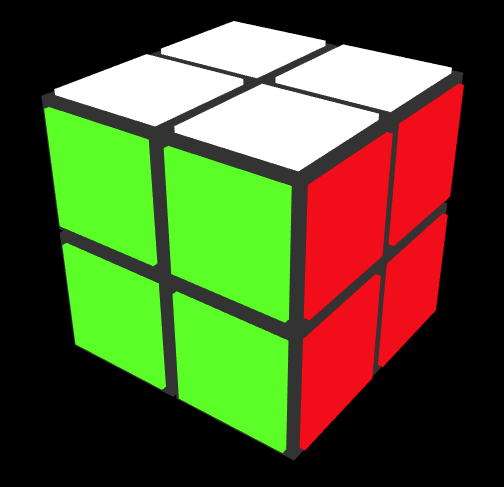
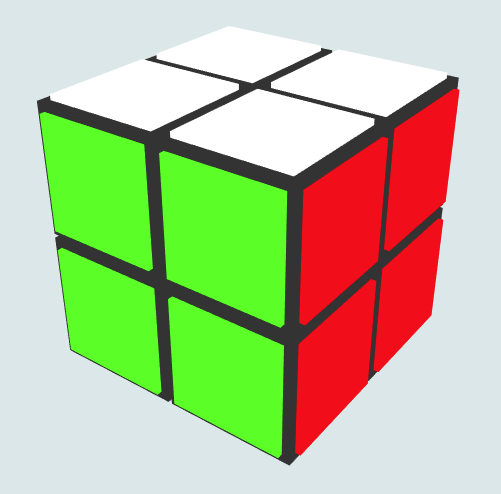
Bugfixes, log tweaking and more valid stats

diff --git a/2x2/trainer.js b/2x2/trainer.js
@@ -39,11 +39,9 @@ const WRITE_FILES = true
 const LOG_INTERVAL = 1
 
 if (!fs.existsSync(dir)) fs.mkdirSync(dir)
-const filename = `${dir}/2x2cube-${formatDate(new Date())}.json`
-const trainingfile = `${dir}/training.json`
 
 const HYPER = {
-	"ITERATIONS": 100000,
+	"EPOCHS": 2,
 	"MOVES": 5,
 	"EXPLORATION_RATE": 0.3,
 	"NETS": 1,
@@ -51,17 +49,22 @@ const HYPER = {
 	"TRAINING_OPTIONS": {
 		iterations: 10000,
 		errorThresh: 0.01,
-	  log: true,
-	  logPeriod: 200
+		timeout: 5000,
+	  	log: true,
+	  	logPeriod: 1
 	},
-	"BRAIN_CONFIG": {}
+	"BRAIN_CONFIG": {
+		hiddenLayers: [480],
+		learningRate: 0.5
+	}
 }
 
-let cube, net, trainer, newNetworkNeeded, fitnessSnapshots, totalIterations
+let cube, net, trainer, newNetworkNeeded, fitnessSnapshots, resultAggregate, binarySnapshotsAggregate
 
 function initTrainer() {
 	fitnessSnapshots = []
-	totalIterations = 0
+	resultAggregate = []
+	binarySnapshotsAggregate = []
 
 	log('\n\n--- [ 2X2 RUBICS CUBE SOLVING USING BRAIN.JS ] ---')
 	log('Hyper-parameters', HYPER)
@@ -84,35 +87,39 @@ function initTrainer() {
 }
 
 function setup() {
+
 	cube = createCube()
 
 	if (newNetworkNeeded) {
-		net = new brain.NeuralNetwork(HYPER["BRAIN_CONFIG"])
-		net.train({ input: binary(cube), output: { F: 0.5, B: 0.5, L: 0.5, R: 0.5, U: 0.5, D: 0.5 } }, { iterations: 1 })
+		net = new brain.NeuralNetworkGPU(HYPER["BRAIN_CONFIG"])
+		log(net.train({ input: binary(cube), output: { F: 0.5, B: 0.5, L: 0.5, R: 0.5, U: 0.5, D: 0.5 } }, { iterations: 1 }))
 	} else {
 		console.error('Cannot load from file - not implemented')
 		process.exit()
-		//net = new brain.NeuralNetwork(HYPER["BRAIN_CONFIG"]).fromJS(file.net)
 	}
+
+	createTrainingFile()
 }
 
 function train() {
 	setup()
 
 	let isDone = false
-	let breakpoint = HYPER.ITERATIONS
+	let breakpoint = HYPER.EPOCHS
 
-	const results = new Array(HYPER.ITERATIONS).fill().map((x, i) => {
+	const results = new Array(HYPER.EPOCHS).fill().map((x, i) => {
 		if (isDone) return null
 		log('\n\n\n\n!!! <<<<<<<<<<<<<<<<<< TRAINING >>>>>>>>>>>>>>>>>> !!!')
-		const trainingStats = trainIteration()
+		const trainingStats = trainEpoch()
 		log('\n=== <<<<<<<<<<<<<<<<<< SOLVING >>>>>>>>>>>>>>>>>> ===')
-		const solveStats = logIteration(i, trainingStats)
+		const solveStats = logEpoch(i)
 
 		if (solveStats.filter(x => isSuccess(x) && x.exploration === false).length === scrambles.length) {
 			isDone = true
 			breakpoint = i
 		}
+
+		log('trainingStats', i, trainingStats)
 
 		return {
 			trainingStats: trainingStats,
@@ -120,30 +127,28 @@ function train() {
 		}
 	})
 
+	resultAggregate = results
+
 	if (WRITE_FILES) {
-		writeTrainingLogFile(breakpoint, false)
+		writeLogFile('training', breakpoint, false)
+		writeLogFile(`${formatDate(new Date())}`, breakpoint, false)
 	}
 
-	log('\n--- [ RESULTS BY PLAYING TEST-DATA ] ---')
-	results.filter(x=>x!==null).forEach(point => {
-		log(`\nTraining Stats: ${point.trainingStats.error}`)
-		point.solveStats.forEach(x => log(x))
-		log(`Success rate: ${ ((point.solveStats.filter(isSuccess).length / point.solveStats.length ) * 100).toFixed(1)}%`)
-
-	})
+	log('\n--- [ FINAL RESULT BY PLAYING TEST-DATA ] ---')
+	const filtered = results.filter(x=>x!==null)
+	const last = filtered.pop()
+	log(`\nTraining Stats: ${last.trainingStats.error}`)
+	log(last.trainingStats)
+	last.solveStats.forEach(x => log(x))
+	log(`Success rate: ${ ((last.solveStats.filter(isSuccess).length / last.solveStats.length ) * 100).toFixed(1)}%`)
 }
 
-function trainIteration() {
+function trainEpoch() {
 	cube = createCube()
 
 	const data = scrambles.map(scramble => solveCube(scramble, true, true))
 
-	/*data.forEach(d => {
-		log(d)
-		d.binarySnapshots.forEach(x => log(x.binaryData.join('')))
-	})*/
-
-	const preparedData = data.flatMap(({ binarySnapshots, success }, i) => {
+	const rewardedPolicyBinarySnapshots = data.flatMap(({ binarySnapshots, success }, i) => {
 		return binarySnapshots.map(snap => {
 			if (success === -1) {
 				return {
@@ -177,12 +182,16 @@ function trainIteration() {
 			}
 		})
 	})
-	log('Prepared data:')
-	preparedData.forEach(data => {
+	log('Prepared data:', rewardedPolicyBinarySnapshots.length)
+	rewardedPolicyBinarySnapshots.forEach(data => {
 		log(`Snapshot:\n${data.input.join('')}\nReward:`)
 		log(data.output)
 	})
-	return net.train(preparedData, HYPER["TRAINING_OPTIONS"])
+
+	binarySnapshotsAggregate.push(rewardedPolicyBinarySnapshots)
+
+	log(`\n\n\nRunning brain.js train API`)
+	return net.train(rewardedPolicyBinarySnapshots, HYPER["TRAINING_OPTIONS"])
 }
 
 function solveCube(scramble, collectMoveData, exploreEnabled) {
@@ -237,29 +246,44 @@ function isSuccess(x) {
 	return x.success !== -1
 }
 
-function logIteration(iteration, stats) {
-	if (iteration % LOG_INTERVAL === 0) {
-		const iterationFitness = scrambles.map(x => solveCube(x, false, false))
+function logEpoch(epoch) {
+	if (epoch % LOG_INTERVAL === 0) {
+		const epochFitness = scrambles.map(x => solveCube(x, false, false))
 
-		fitnessSnapshots.push({ fitness: iterationFitness, date: new Date().toISOString() })
+		fitnessSnapshots.push({ fitness: epochFitness, date: new Date().toISOString() })
 		if (WRITE_FILES) {
-			writeTrainingLogFile(iteration, true)
+			writeLogFile('training', epoch, true)
 		}
-		return iterationFitness
+		return epochFitness
 	}
 }
 
-function writeTrainingLogFile(trainedIterations, isTraining) {
+function writeLogFile(file, epochs, isTraining) {
 	const jsonStr = JSON.stringify({
 		training: isTraining,
 		"max-fitness": scrambles.length,
-		"trained-iterations": trainedIterations,
-		filename: filename,
+		"epochs": epochs,
+		file: file,
 		fitnessSnapshots: fitnessSnapshots,
+		"binary-snapshots": binarySnapshotsAggregate.flatMap(x=>x),
 		"hyper-parameters": HYPER,
+		"iterations": resultAggregate.filter(x=>x!==null).map(x => x.trainingStats.iterations).reduce((acc, curr) => acc + curr, 0),
 		net: net.toJSON()
 	})
-	fs.writeFileSync(trainingfile, jsonStr)
+	fs.writeFileSync(`${dir}/${file}.json`, jsonStr)
+}
+
+function createTrainingFile() {
+	fs.writeFileSync(`${dir}/training.json`, JSON.stringify({
+		training: true,
+		"max-fitness": "-",
+		"epochs": "-",
+		fitnessSnapshots: [],
+		"binary-snapshots": [],
+		"hyper-parameters": HYPER,
+		"iterations": "-",
+		net: net.toJSON()
+	}))
 }
 
 function formatDate(date) {

diff --git a/2x2/statistics.js b/2x2/statistics.js
@@ -104,9 +104,14 @@ function renderLineChart(_data) {
     const successes = flatFitness.filter(isSuccess).length
     const total = flatFitness.length
     const failures = total - successes
-    const successRate = 100 / (total / successes)
-    const finalIteration = (100 * (data[data.length-1].fitness.filter(isSuccess).length / _data['max-fitness']))
-    document.getElementById("successRate").innerHTML = `Lastest iteration solve success: ${finalIteration === 100 ? 100 : finalIteration.toFixed(1)}%<br>Total success rate: ${successRate.toFixed(2)}%<br>Iterations performed: ${_data['trained-iterations']}`
+    const successRate = data.length > 0 ? 100 / (total / successes) : 0.0
+    const finalEpoch = data.length > 0 ? (100 * (data[data.length-1].fitness.filter(isSuccess).length / _data['max-fitness'])) : 0.0
+    document.getElementById("successRate").innerHTML = 
+`Lastest epoch solve success: ${finalEpoch === 100 ? 100 : finalEpoch.toFixed(1)}%<br>
+Total success rate: ${successRate.toFixed(2)}%<br><br>
+Epochs: ${_data['epochs']}<br>
+Iterations: ${_data['iterations']}<br>
+Binary snapshots: ${_data['binary-snapshots'].length}`
 
     let b = []
     const config = _data["hyper-parameters"]["BRAIN_CONFIG"]
@@ -116,7 +121,7 @@ function renderLineChart(_data) {
     document.getElementById("hyper").innerHTML =
 `<strong>Hyper-parameters:</strong><br>
 Move limit: ${_data["hyper-parameters"].MOVES}<br>
-Iterations: ${_data["hyper-parameters"].ITERATIONS}<br>
+Epochs: ${_data["hyper-parameters"].EPOCHS}<br>
 Exploration rate: ${_data["hyper-parameters"]["EXPLORATION_RATE"]}<br>
 Brain.js parameters: <br>${b.join('<br>')}<br>
 `

diff --git a/2x2/3d-cube.html b/2x2/3d-cube.html
@@ -4,18 +4,24 @@
 		<meta charset="utf-8">
 		<title>Rubiks 2x2 3d-demo</title>
 		<style>
-			body { margin: 0; }
-			canvas { display: block; }
+			body {
+				padding: 0;
+				margin: 0;
+				background-color: #d9e7e8;
+			}
+			canvas {
+				display: block;
+			}
 
 			.label {
-				top: 220px;
+				top: 27%;
 				background-color: rgba(0,0,0,0.3);
 				text-align: center;
 				width: 100%;
 				position: absolute;
 				font-family: 'Roboto Mono';
-  			z-index: 100;
-  			font-size: 20px;
+				z-index: 100;
+				font-size: 20px;
 			}
 
 			.solving {
